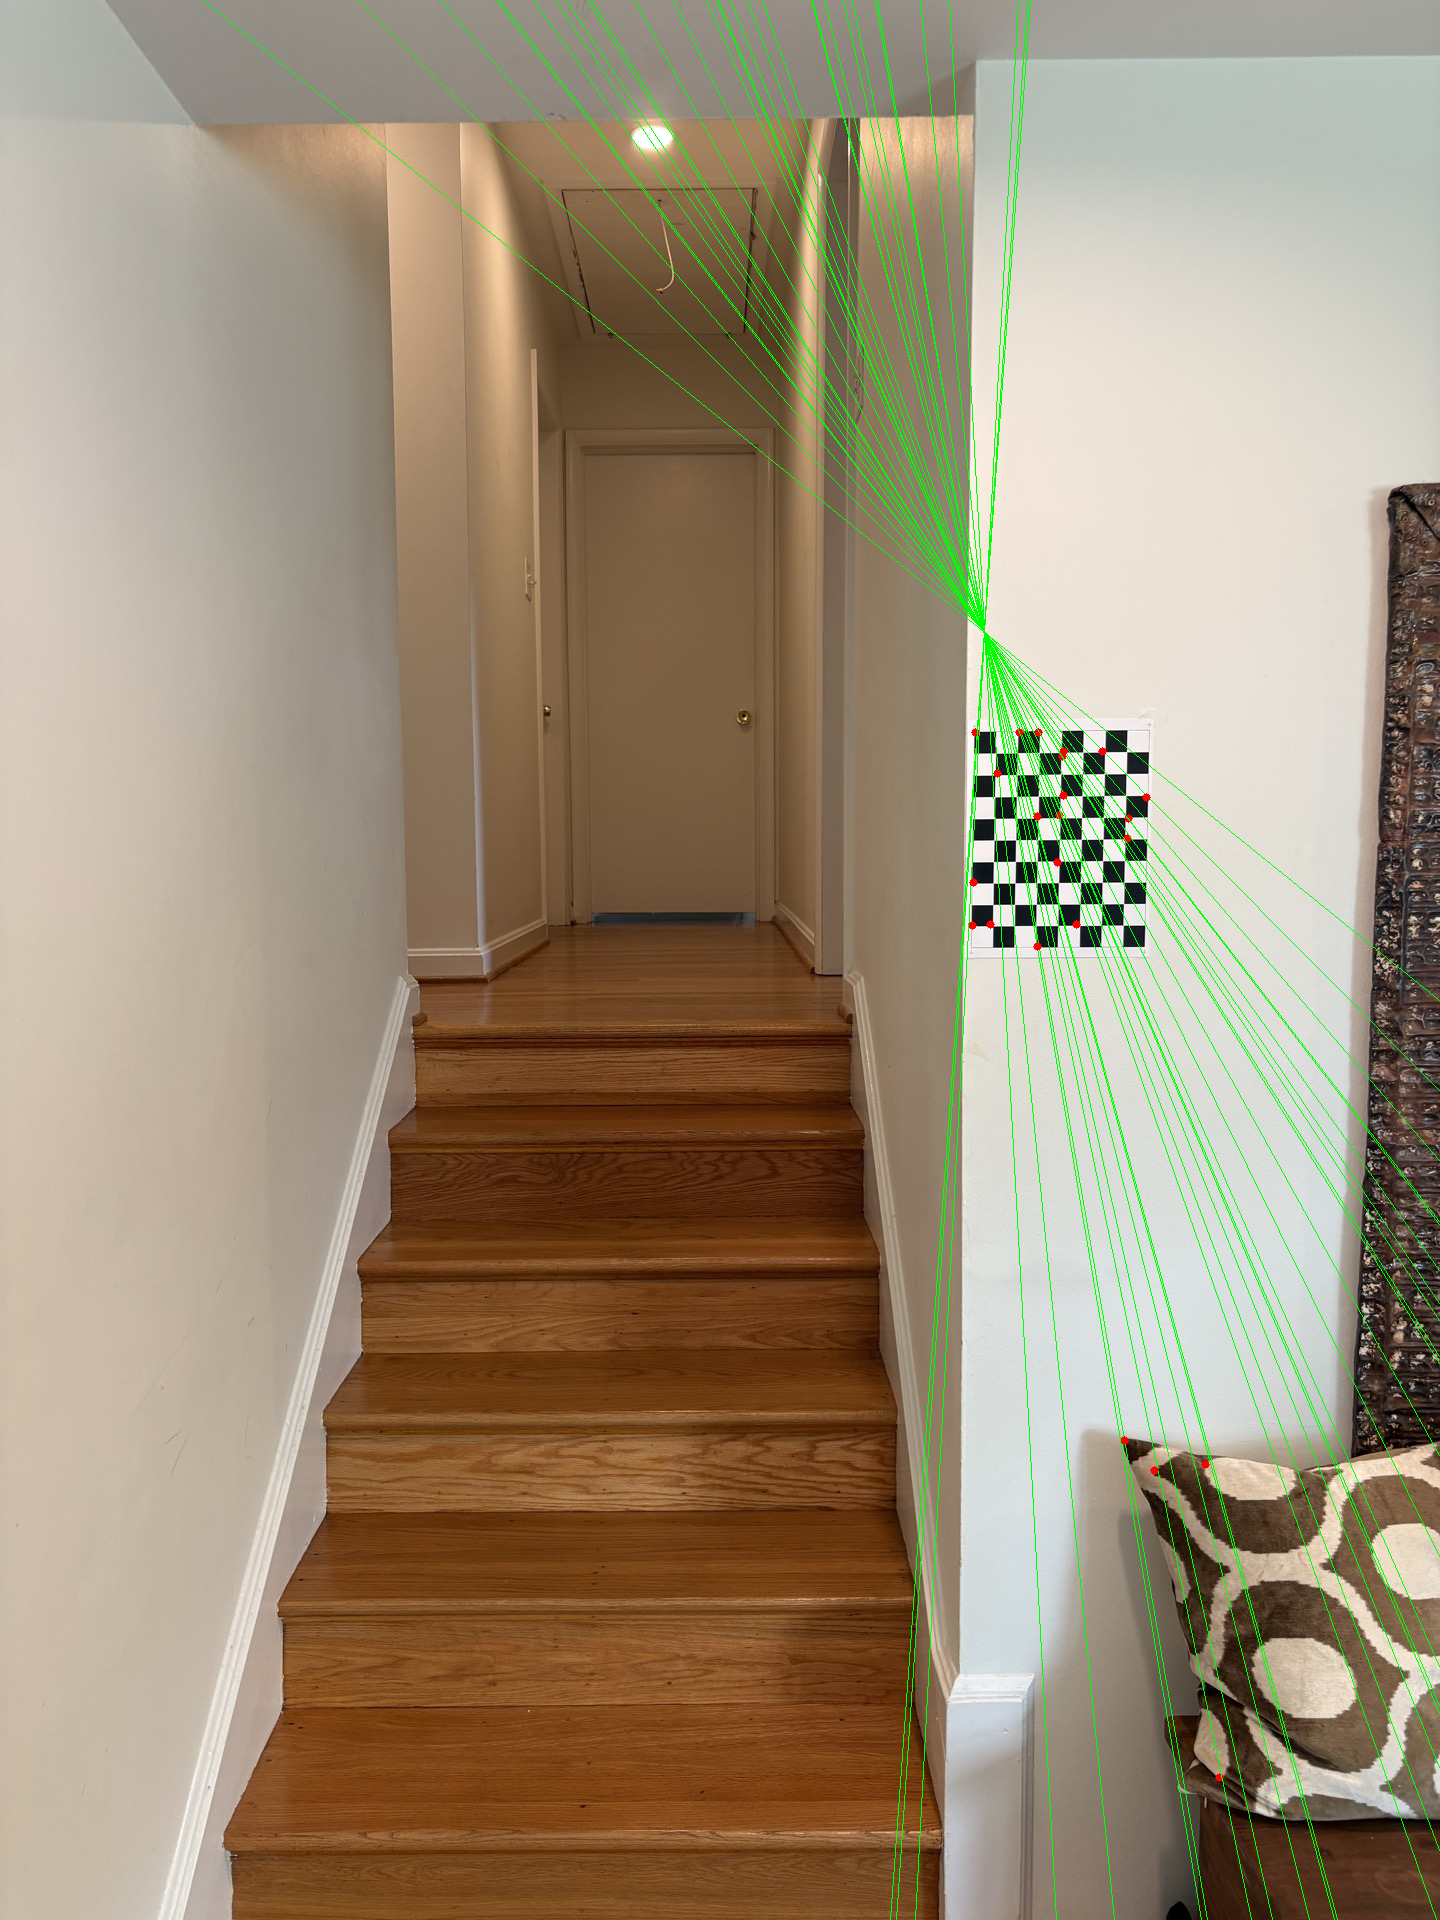
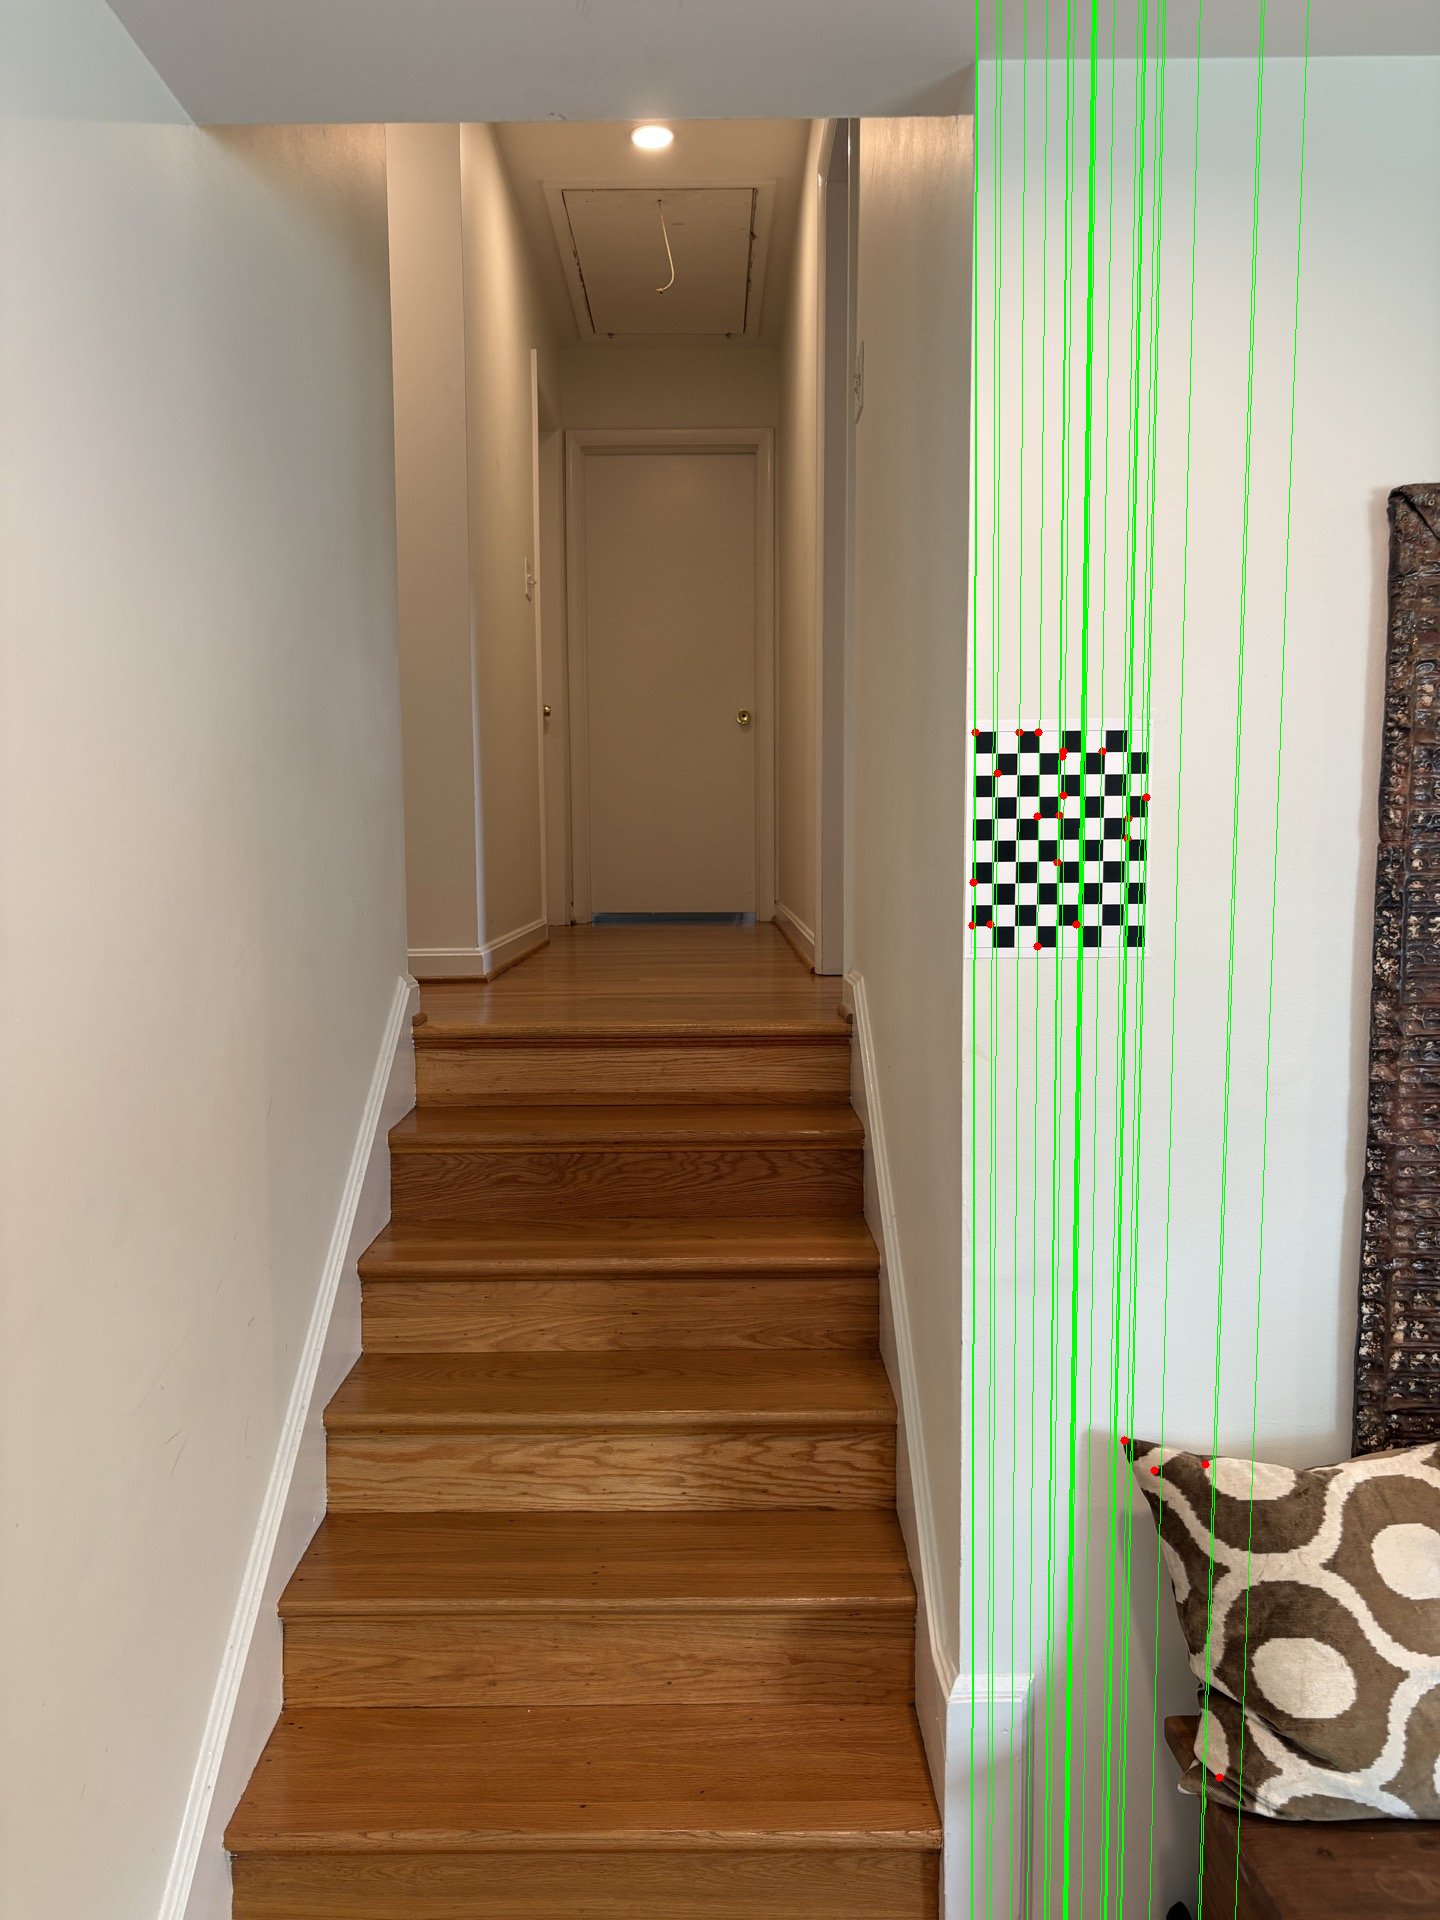
did 10,000 iterations

diff --git a/apps/03_my_f.cpp b/apps/03_my_f.cpp
@@ -24,7 +24,7 @@ int main() {
     // we test vs the open cv example
     cv::Mat my_F = computeFundamentalMatrix(left_pts, right_pts);
 
-    cv::Mat ransac_F = RansacFundamental(left_pts, right_pts, 9.0, 2000);
+    cv::Mat ransac_F = RansacFundamental(left_pts, right_pts, 9.0, 10000);
     ransac_F /= ransac_F.at<double>(2,2);
     std::cout << "ransac F:\n" << ransac_F << "\n";
 

diff --git a/readme.md b/readme.md
@@ -97,9 +97,9 @@ Scene: a staircase with a hallway receding to a far door, a checkerboard on the 
 ![My F epipolar lines on scene](output/my_f_scene.png)
 Epipole lands inside the frame; lines are skewed — outliers pull the algebraic fit off the true geometry.
 
-**Hand-rolled 8-point algorithm with RANSAC + Sampson distance — 101 inliers**
+**Hand-rolled 8-point algorithm with RANSAC + Sampson distance (10 000 iterations) — 101 inliers**
 ![RANSAC epipolar lines on scene](output/ransac_f_scene.png)
-Epipole pushed off the upper-right edge of the frame; lines fan correctly across the whole scene.
+Epipole off the right edge; lines are nearly parallel — matches the OpenCV reference visually.
 
 **OpenCV reference (`cv::findFundamentalMat` with `FM_RANSAC`) — 108 inliers**
 ![OpenCV epipolar lines on scene](output/ocv_f_scene.png)
@@ -109,7 +109,7 @@ Epipole off the right edge; lines are nearly parallel — consistent with a pred
 
 The scene is a staircase with strong depth variation (checkerboard metric reference, foreground objects, receding hallway). The camera was translated roughly sideways, so epipolar lines should fan out from a distant epipole near or beyond the right edge of the frame.
 
-The raw algebraic 8-point fit (`my_f`) satisfies the epipolar constraint numerically but is pulled off by outliers, placing the epipole inside the frame. Switching to Sampson-distance RANSAC (`ransac_f`, 101 inliers) and OpenCV's RANSAC (`ocv_f`, 108 inliers) both recover a geometrically correct F: epipole off-frame, lines fanning across the scene consistent with the actual camera motion.
+The raw algebraic 8-point fit (`my_f`) satisfies the epipolar constraint numerically but is pulled off by outliers, placing the epipole inside the frame. Switching to Sampson-distance RANSAC (`ransac_f`, 10 000 iterations, 101 inliers) recovers geometrically correct geometry that matches the OpenCV reference: epipole off-frame to the right, lines nearly parallel across the scene, consistent with the actual sideways camera translation.
 
 
 ## Camera Calibration Results